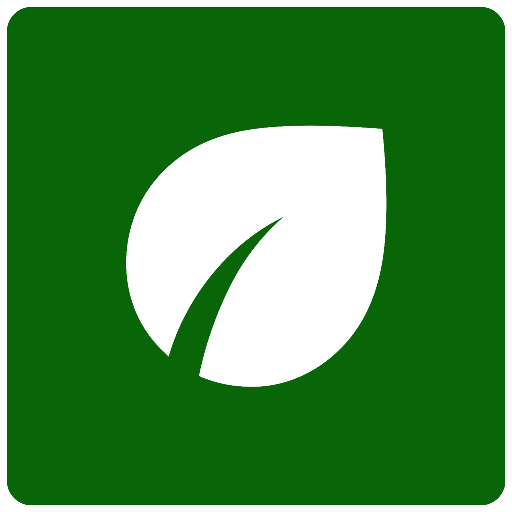
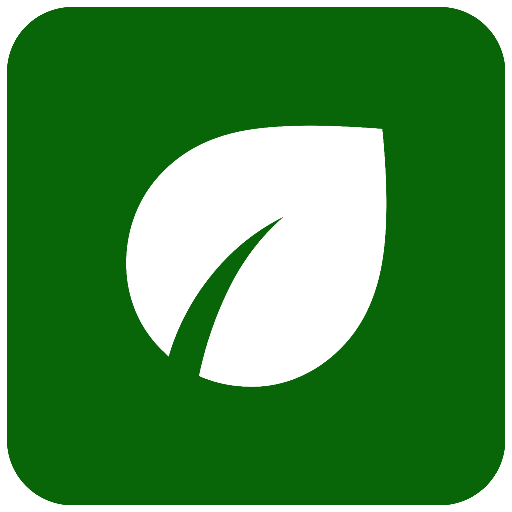
.

diff --git a/NextJS/abicio/src/app/(public)/layout.tsx b/NextJS/abicio/src/app/(public)/layout.tsx
@@ -1,5 +1,5 @@
 "use client";
-import { APP_NAME, APP_TAGLINE, NAV_ITEMS } from "@/app/AbicioMaster";
+import { APP_NAME, APP_TAGLINE, AppIcon, NAV_ITEMS } from "@/app/AbicioMaster";
 import { AppThemeModeToggleButton } from "@/components/mui/apx/tsx/AppThemeModeProvider";
 import RecyclingOutlined from "@mui/icons-material/RecyclingOutlined";
 import { AppBar, Box, Button, Container, Stack, Toolbar, Typography } from "@mui/material";
@@ -7,7 +7,7 @@ import { alpha, useTheme } from "@mui/material/styles";
 import Link from "next/link";
 import { usePathname } from "next/navigation";
 import React from "react";
-
+import Image from "next/image";
 
 
 
@@ -23,13 +23,11 @@ export default function PublicLayout({ children }: Readonly<{ children: React.Re
 							  <Container maxWidth={ "lg" } disableGutters={ true }>
 									 <Toolbar sx={ { minHeight: { xs: 68, sm: 76 }, px: { xs: 2, sm: 3 }, gap: 2 } }>
 											<Box component={ Link } href={ "/" } gap={ 1 } sx={ { display: "flex", alignItems: "center", color: "inherit", textDecoration: "none", mr: { xs: "auto", md: 2 } } }>
-												  <Box sx={ { display: "grid", placeItems: "center", width: 48, height: 48, borderRadius: 2, bgcolor: "primary.main", color: "primary.contrastText" } }>
-														 <RecyclingOutlined fontSize={ "large" }/>
-												  </Box>
-												  <Box>
+												  <Image src={ AppIcon } alt={ APP_NAME } height={ 48 } width={ 48 }/>
+												  <Stack>
 														 <Typography variant={ "h5" }>{ APP_NAME }</Typography>
 														 <Typography variant={ "caption" } color={ "text.secondary" }>{ APP_TAGLINE }</Typography>
-												  </Box>
+												  </Stack>
 											</Box>
 											<Stack direction={ "row" } spacing={ 0.5 } sx={ { display: { xs: "none", sm: "flex" } } }>
 												  { items.map((item) =>

diff --git a/NextJS/abicio/src/components/mui/apx/tsx/AppThemeModeProvider.tsx b/NextJS/abicio/src/components/mui/apx/tsx/AppThemeModeProvider.tsx
@@ -16,7 +16,6 @@ import React from "react";
 export type ThemeMode = "dark" | "light";
 
 
-
 const createAppTheme = (mode: ThemeMode): Theme => {
 	  const isDark = mode === "dark";
 	  const primary = isDark ? green[400] : green[800];
@@ -47,6 +46,9 @@ const createAppTheme = (mode: ThemeMode): Theme => {
 					h4: { fontSize: 23, fontWeight: 800 },
 					h5: { fontSize: 19, fontWeight: 800 },
 					h6: { fontSize: 16, fontWeight: 800 },
+					caption: { fontFamily: `"Roboto Condensed", "Arial", sans-serif`, fontWeight: 600, letterSpacing: 0.5 },
+					body1: { fontFamily: `"Roboto Condensed", "Arial", sans-serif`, fontWeight: 400 },
+					body2: { fontFamily: `"Roboto Condensed", "Arial", sans-serif`, fontSize: 12 },
 					subtitle1: { fontSize: 15, fontWeight: 600 }
 			 },
 			 shape: { borderRadius: 3 },

diff --git a/NextJS/abicio/src/app/AbicioMaster.tsx b/NextJS/abicio/src/app/AbicioMaster.tsx
@@ -1,3 +1,4 @@
+import AppIcon from "@/app/android-chrome-512x512.png";
 import { DateTimeFormatter, Instant, ZoneId } from "@js-joda/core";
 import { Locale } from "@js-joda/locale_en";
 import CameraAltOutlined from "@mui/icons-material/CameraAltOutlined";
@@ -12,6 +13,7 @@ import React from "react";
 
 
 export {
+	  AppIcon,
 	  EcoOutlined, HistoryOutlined, RecyclingOutlined,
 	  ShieldOutlined, TravelExploreOutlined
 };
